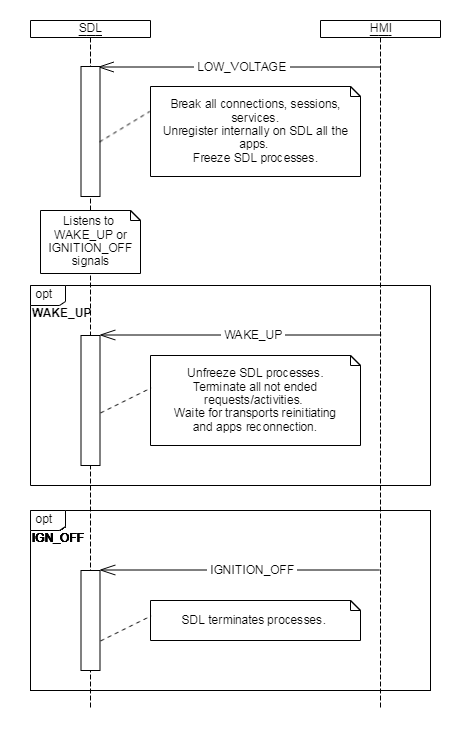
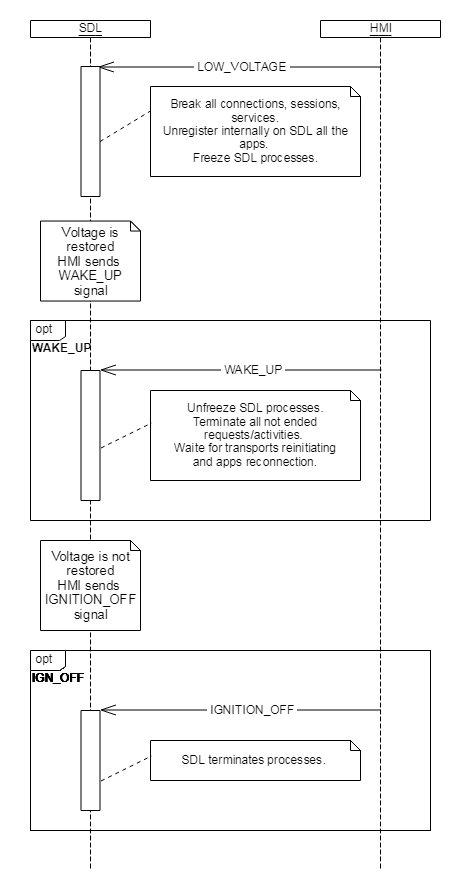
Edit index.md, update diagrams

diff --git a/docs/UnixSignals/LowVoltage/index.md b/docs/UnixSignals/LowVoltage/index.md
@@ -7,13 +7,13 @@ Sender
 : HMI
 
 Purpose
-: To suspend SDL's services due to a low voltage event
+: To suspend/restore SDL's services due to a low voltage event
 
 ### Description  
 A 'LowVoltage' event occurs on HMI when battery voltage hits below a certain predefined threshold set by the system.  
 In case of such event, SDL operations are halted including receiving and processing of normal RPC messages from HMI. 
-HMI sends system signals to SDL to exchange shutdown and wake-up signals.  
-After the voltage level is restored all operations are resumed.
+HMI sends system signals of the range SIGRTMIN - SIGRTMAX for LowVoltage, WakeUp and IgnitionOff to SDL. 
+After the voltage level is restored HMI sends `WAKE_UP` signal to SDL and SDL processes all operations resumption.
 
 !!!
 MUST  
